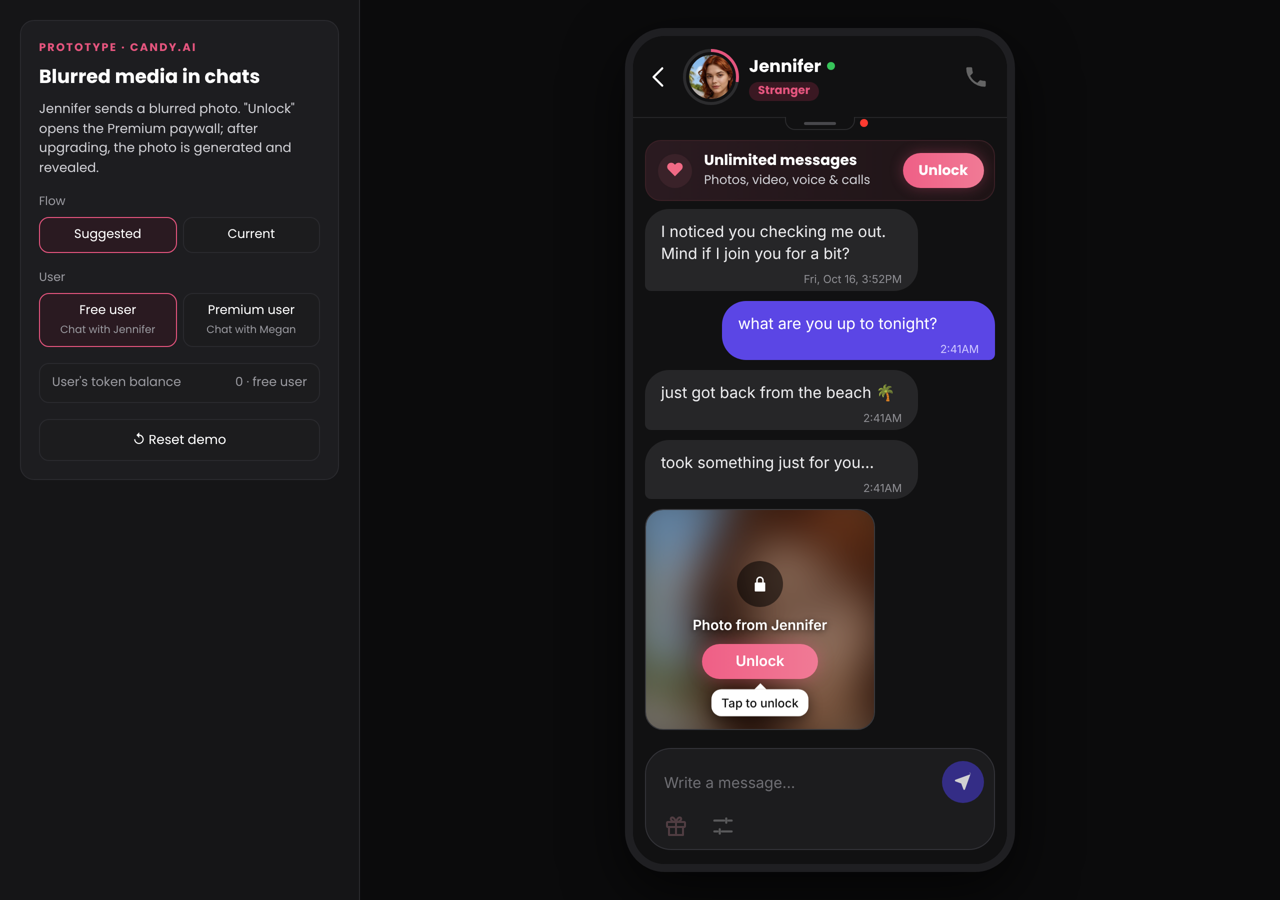
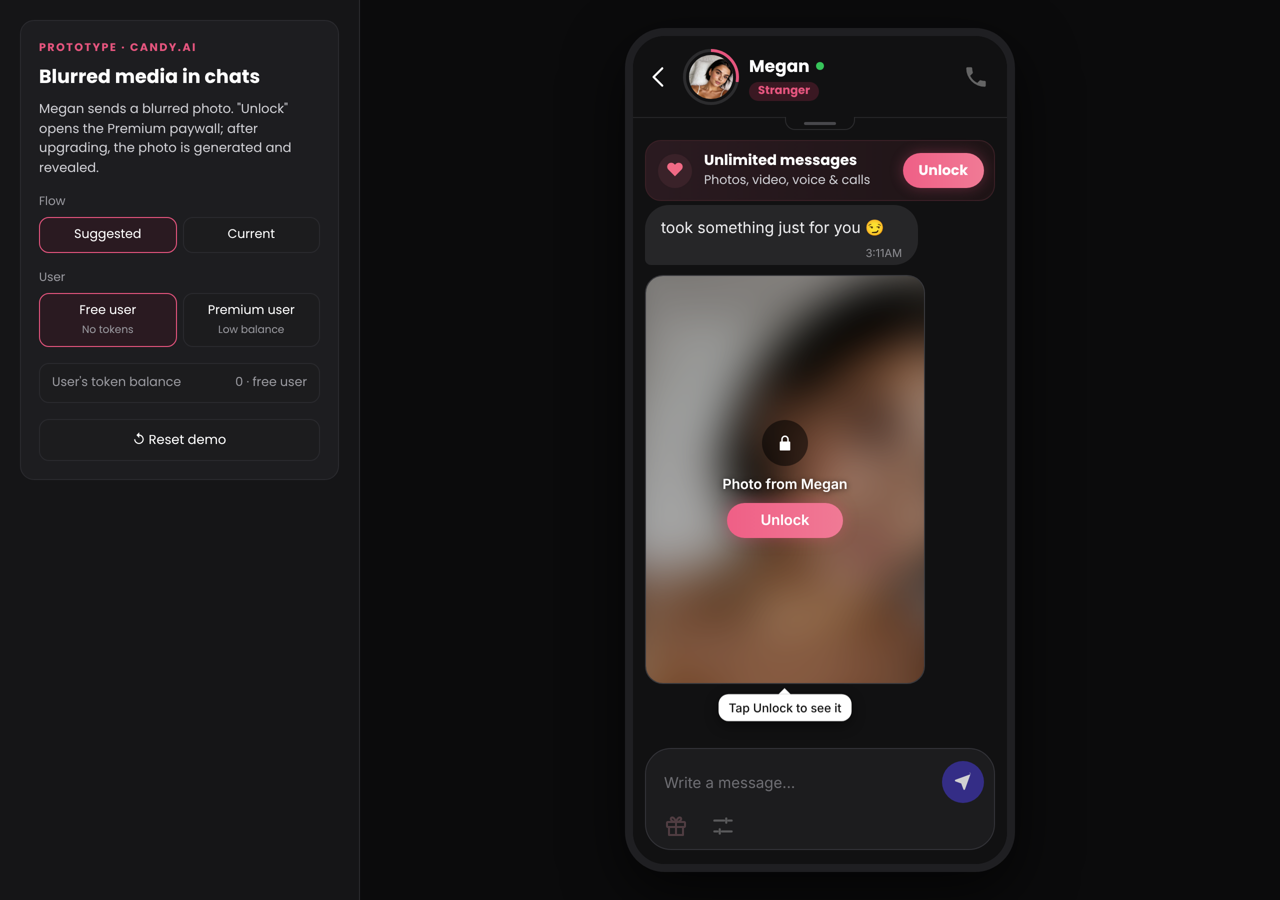
Megan in both chats, Candy-sized media, visible unlock hint, paywall copy
- Both users chat with Megan; new AI-generated photos and video frame
- Media and blurred placeholders sized like Candy.ai's chat media
- 'Tap Unlock' hint moved outside the clipped tile so it shows
- Paywall: equal title sizes, 'Photos, videos & voice notes', Candy's gem icon
- Removed the stray red dot under the header

Claude-Session: https://claude.ai/code/session_01W9ZohCqYUs211phYXXY5TT

diff --git a/src/styles.css b/src/styles.css
@@ -153,7 +153,6 @@ button:disabled { cursor: default; }
 .ic.call { margin-left: auto; }
 .handle-tab { position: relative; align-self: center; width: 70px; height: 13px; margin-top: -1px; border: 1px solid #2c2c2e; border-top: 0; border-radius: 0 0 10px 10px; background: var(--app); z-index: 1; }
 .handle-tab i { position: absolute; left: 50%; top: 5px; translate: -50% 0; width: 32px; height: 3px; border-radius: 2px; background: #48484c; }
-.handle-tab b { position: absolute; right: -14px; top: 2px; width: 8px; height: 8px; border-radius: 50%; background: #ff3b30; }
 .upsell { margin: 10px 12px 0; display: flex; align-items: center; gap: 12px; padding: 10px 10px 10px 12px; border-radius: 16px; background: linear-gradient(90deg, #2a1a20, #1e1416); border: 1px solid #3a2026; opacity: 1 !important; filter: none !important; }
 .heart { width: 34px; height: 34px; border-radius: 50%; background: #3a2229; color: #f06a85; display: flex; align-items: center; justify-content: center; font-size: 18px; flex: none; }
 .up-t { font-weight: 600; font-size: 14.5px; }
@@ -254,3 +253,15 @@ button:disabled { cursor: default; }
 .tip.below { bottom: auto; top: calc(100% + 10px); animation: bobd 1.6s ease-in-out infinite; }
 .tip.below::after { bottom: auto; top: -6px; border: 6px solid transparent; border-top: 0; border-bottom-color: #fff; }
 @keyframes bobd { 50% { translate: -50% 3px; } }
+
+/* media sized like Candy.ai's chat media (portrait, ~80% of the screen width) */
+.media-wrap { position: relative; align-self: flex-start; width: 80%; max-width: 330px; flex: none; }
+.media { width: 80%; max-width: 330px; height: auto; aspect-ratio: 832 / 1216; flex: none; }
+.media-wrap .media { width: 100%; max-width: none; }
+.media.locked { max-height: 62vh; max-height: 62dvh; }
+.media .play { width: 64px; height: 64px; background: #7a5a4ccc; }
+.media-wrap .tip.below { top: calc(100% + 10px); left: 50%; }
+.pw-t1, .pw-t2 { font-size: 24px; line-height: 1.25; }
+.pw-t1 { margin-top: 18px; }
+.pw-btn { display: inline-flex; align-items: center; justify-content: center; gap: 10px; }
+.media-wrap:has(.tip) { margin-bottom: 46px; }

diff --git a/src/components/PaywallModal.tsx b/src/components/PaywallModal.tsx
@@ -6,7 +6,7 @@ import * as I from './Icons';
 export function PaywallModal({ character, onUpgrade, onClose }: { character: Character; onUpgrade: () => void; onClose: () => void }) {
   const perks = [
     `${character.name} sends you photos & videos on her own`,
-    `${PREMIUM.tokens} tokens every month, this photo included`,
+    `${PREMIUM.tokens} tokens every month`,
     'Unlimited text messages',
     'AI Live Phone Call',
     'and more…',
@@ -19,10 +19,10 @@ export function PaywallModal({ character, onUpgrade, onClose }: { character: Cha
         </button>
         <div className="pw-cards">
           <span className="pw-back" />
-          <img src={character.photo} alt="" />
+          <img src={character.paywall} alt="" />
         </div>
         <div className="pw-t1">Upgrade to Unlock</div>
-        <div className="pw-t2">Photos &amp; videos from {character.name}</div>
+        <div className="pw-t2">Photos, videos &amp; voice notes from {character.name}</div>
         <div className="pw-sub">With subscription you get access to:</div>
         <ul className="pw-list">
           {perks.map((p) => (
@@ -33,7 +33,7 @@ export function PaywallModal({ character, onUpgrade, onClose }: { character: Cha
           ))}
         </ul>
         <button className="pw-btn" onClick={onUpgrade}>
-          <span className="gem">◆</span> Upgrade to Premium
+          <I.Diamond /> Upgrade to Premium
         </button>
       </div>
     </div>

diff --git a/src/components/Controls.tsx b/src/components/Controls.tsx
@@ -19,8 +19,8 @@ interface Props {
 
 const LEDE: Record<UserType, Record<Flow, string>> = {
   free: {
-    new: 'Jennifer sends a blurred photo. "Unlock" opens the Premium paywall; after upgrading, the photo is generated and revealed.',
-    legacy: "Free users get no automatic media. Ask Jennifer for a photo and see today's reply.",
+    new: 'Megan sends a blurred photo. "Unlock" opens the Premium paywall; after upgrading, the photo is generated and revealed.',
+    legacy: "Free users get no automatic media. Ask Megan for a photo and see today's reply.",
   },
   premium: {
     new: "Megan's automatic video arrives blurred when the balance can't cover it. \"Unlock\" opens the token packs; after paying, the video is generated and revealed.",
@@ -56,11 +56,11 @@ export function Controls({ user, flow, isPremiumNow, balance, settings, onUser, 
         <div className="seg">
           <button className={user === 'free' ? 'on' : ''} onClick={() => onUser('free')}>
             Free user
-            <small>Chat with Jennifer</small>
+            <small>No tokens</small>
           </button>
           <button className={user === 'premium' ? 'on' : ''} onClick={() => onUser('premium')}>
             Premium user
-            <small>Chat with Megan</small>
+            <small>Low balance</small>
           </button>
         </div>
       </div>

diff --git a/src/components/ChatScreen.tsx b/src/components/ChatScreen.tsx
@@ -51,7 +51,6 @@ export function ChatScreen({ character, showUpgradeBanner, messages, suggestion,
       </header>
       <div className="handle-tab">
         <i />
-        <b />
       </div>
 
       {showUpgradeBanner && (
@@ -133,6 +132,7 @@ function MediaItem({ m, character, onUnlock }: { m: Extract<Message, { kind: 'me
       </div>
     );
   return (
+    <div className="media-wrap">
     <div className={`media locked ${m.media} ${m.state}`}>
       {/* Placeholder: a generic blur of the character's existing art, not a preview of the new media. */}
       <img src={character.avatar} alt="" className="blurimg" />
@@ -150,11 +150,12 @@ function MediaItem({ m, character, onUnlock }: { m: Extract<Message, { kind: 'me
             <span className="lk-label">{label}</span>
             <button className="lk-btn" onClick={onUnlock}>
               Unlock
-              <span className="tip below">Tap to unlock</span>
             </button>
           </>
         )}
       </div>
+    </div>
+      {m.state === 'locked' && <span className="tip below">Tap Unlock to see it</span>}
     </div>
   );
 }

diff --git a/src/characters.ts b/src/characters.ts
@@ -4,13 +4,17 @@ export interface Character {
   name: string;
   avatar: string;
   level: string;
-  /** what the revealed media looks like */
+  /** shown on the Premium paywall */
+  paywall: string;
+  /** what the revealed media looks like (AI-generated stand-ins) */
   photo: string;
   video: string;
 }
 
-/** Free users chat with Jennifer, Premium users with Megan (as in the reference screenshots). */
+const MEGAN = { name: 'Megan', avatar: './megan.png', paywall: './meg-paywall.jpg', video: './meg-video.jpg' };
+
+/** Both users chat with Megan; only their access differs. */
 export const CHARACTERS: Record<UserType, Character> = {
-  free: { name: 'Jennifer', avatar: './jen-av.jpg', level: 'Stranger', photo: './jen-photo.jpg', video: './jen-photo.jpg' },
-  premium: { name: 'Megan', avatar: './megan.png', level: 'Match', photo: './megan.png', video: './meg-video.jpg' },
+  free: { ...MEGAN, level: 'Stranger', photo: './meg-photo.jpg' },
+  premium: { ...MEGAN, level: 'Match', photo: './meg-selfie.jpg' },
 };

diff --git a/src/App.tsx b/src/App.tsx
@@ -29,7 +29,7 @@ const HISTORY: Record<UserType, Message[]> = {
 /** The one message the reviewer sends, and the character's reply, per user and flow. */
 const SCRIPT: Record<UserType, Record<Flow, { ask: string; reply: string[] }>> = {
   free: {
-    new: { ask: 'what are you up to tonight?', reply: ['just got back from the beach 🌴', 'took something just for you…'] },
+    new: { ask: 'what are you up to tonight?', reply: ['lying in bed, kinda bored…', 'took something just for you 😏'] },
     legacy: { ask: 'Hiii, can you send me a photo?', reply: ['ugh i wish i could!', 'my camera is acting up though', 'so tell me about yourself instead?'] },
   },
   premium: {

diff --git a/src/components/Icons.tsx b/src/components/Icons.tsx
@@ -73,3 +73,10 @@ export const Play = ({ size = 30 }: P) => (
   </svg>
 );
 export const ChevronRight = ({ size = 20 }: P) => svg(size, <path d="m9 6 6 6-6 6" />);
+/** Candy.ai's Premium gem (tilted, faceted), as on its "Upgrade to Premium" button. */
+export const Diamond = ({ size = 26 }: P) => (
+  <svg width={size} height={size} viewBox="0 0 24 24" aria-hidden style={{ transform: 'rotate(-18deg)' }}>
+    <path d="M6.5 4h11L22 9.2 12 21 2 9.2z" fill="#ffd3de" />
+    <path d="M2 9.2h20M8.6 9.2 12 21l3.4-11.8M6.5 4l2.1 5.2L12 4l3.4 5.2L17.5 4" fill="none" stroke="#e26d8c" strokeWidth={1.1} strokeLinejoin="round" />
+  </svg>
+);

diff --git a/README.md b/README.md
@@ -7,22 +7,22 @@ A working prototype of the smallest testable slice of **initiative #1** from my 
 
 **▶ Live demo:** https://levonshoyan0.github.io/candy-blurred-media/
 
-<p align="center"><img src="docs/chat-flow.gif" width="300" alt="Free user: Jennifer sends a blurred photo, Unlock opens the Premium paywall, the photo is generated and revealed after upgrading"></p>
+<p align="center"><img src="docs/chat-flow.gif" width="300" alt="Free user: Megan sends a blurred photo, Unlock opens the Premium paywall, the photo is generated and revealed after upgrading"></p>
 
 ## The problem
 
-Candy.ai already sends automatic media (photo 2 tk, 15s video 18 tk), but only to Premium users whose balance covers it. Free users never get it, and Premium users with too few tokens get nothing. If they ask, the character deflects: "ugh i wish i could! my camera is acting up", or "it's just not an option here". The most engaged moment in the chat ends with no way to pay.
+Candy.ai already sends automatic media (photo 2 tk, 15s video 18 tk), but only to Premium users whose balance covers it. Free users never get it, and Premium users with too few tokens get nothing. If they ask, the character deflects: "ugh i wish i could! my camera is acting up", or "i literally cannot, it's just not an option here". The most engaged moment in the chat ends with no way to pay.
 
 ![Current vs suggested, for a free and a Premium user](docs/current-vs-suggested.png)
 
 ## What the prototype does
 
-Pick the user in the sidebar; the rest of the flow follows from it.
+Pick the user in the sidebar; both chat with Megan, and the rest of the flow follows from the user's access.
 
 | User | What the character sends | "Unlock" opens | After paying |
 |---|---|---|---|
-| **Free** (chat with Jennifer) | One blurred photo per session | The Premium paywall: "Upgrade to Unlock · Photos & videos from Jennifer" | Premium's 100 tokens pay for the photo (98 left) |
-| **Premium** (chat with Megan) | Automatic media, blurred when the balance can't cover it | The "Not Enough Tokens!" pack picker | The pack's tokens pay for the media |
+| **Free** (no tokens) | One blurred photo per session | The Premium paywall: "Upgrade to Unlock · Photos, videos & voice notes from Megan" | Premium's 100 tokens pay for the photo (98 left) |
+| **Premium** (low balance) | Automatic media, blurred when the balance can't cover it | The "Not Enough Tokens!" pack picker | The pack's tokens pay for the media |
 
 In both cases **the photo or video is generated only after payment**. Until then the chat shows a blurred placeholder made from the character's existing art, so unsold media costs nothing and the preview never misrepresents what's coming. Locked items stay in the chat; closing the paywall or cancelling checkout leaves them locked.
 
@@ -41,7 +41,7 @@ The **current** flow reproduces today's behaviour: the user asks for media and t
 | Control | What it does |
 |---|---|
 | **Flow: Suggested / Current** | Switches between blurred media and today's deflection |
-| **User: Free / Premium** | Jennifer (free, no tokens) or Megan (Premium) |
+| **User: Free / Premium** | A free user with no tokens, or a Premium user with a low balance |
 | **User's token balance** | Premium only; editable and applied immediately. Starts at 7 |
 | **What can Megan send you?** | Photos and videos toggles, as in Candy.ai's media settings. Videos are sent first when allowed; nothing allowed means nothing is sent |
 | **Reset demo** | Restarts the chat with the last balance you typed |
@@ -89,7 +89,7 @@ Both suites run in GitHub Actions on every push.
 | Candy.ai's automatic-media prices, pack prices and Premium price | Chat, characters and media (static frames) |
 | The full flow, balance rules and event sequence | Media generation (a short delay) |
 
-Character images are frames from Candy.ai, used only to make the prototype recognisable.
+Character images are AI-generated stand-ins, used only to make the prototype recognisable.
 
 ## Run it
 
@@ -111,7 +111,7 @@ React 18, TypeScript, Vite, Vitest, Playwright. No backend: the slice being test
 ```
 src/
   App.tsx                  flow state, balance rules, analytics events
-  characters.ts            Jennifer (free) and Megan (Premium)
+  characters.ts            Megan, as seen by a free and a Premium user
   lib/media.ts             what gets sent, reveal guard, prices (unit-tested)
   lib/events.ts            analytics events
   components/
